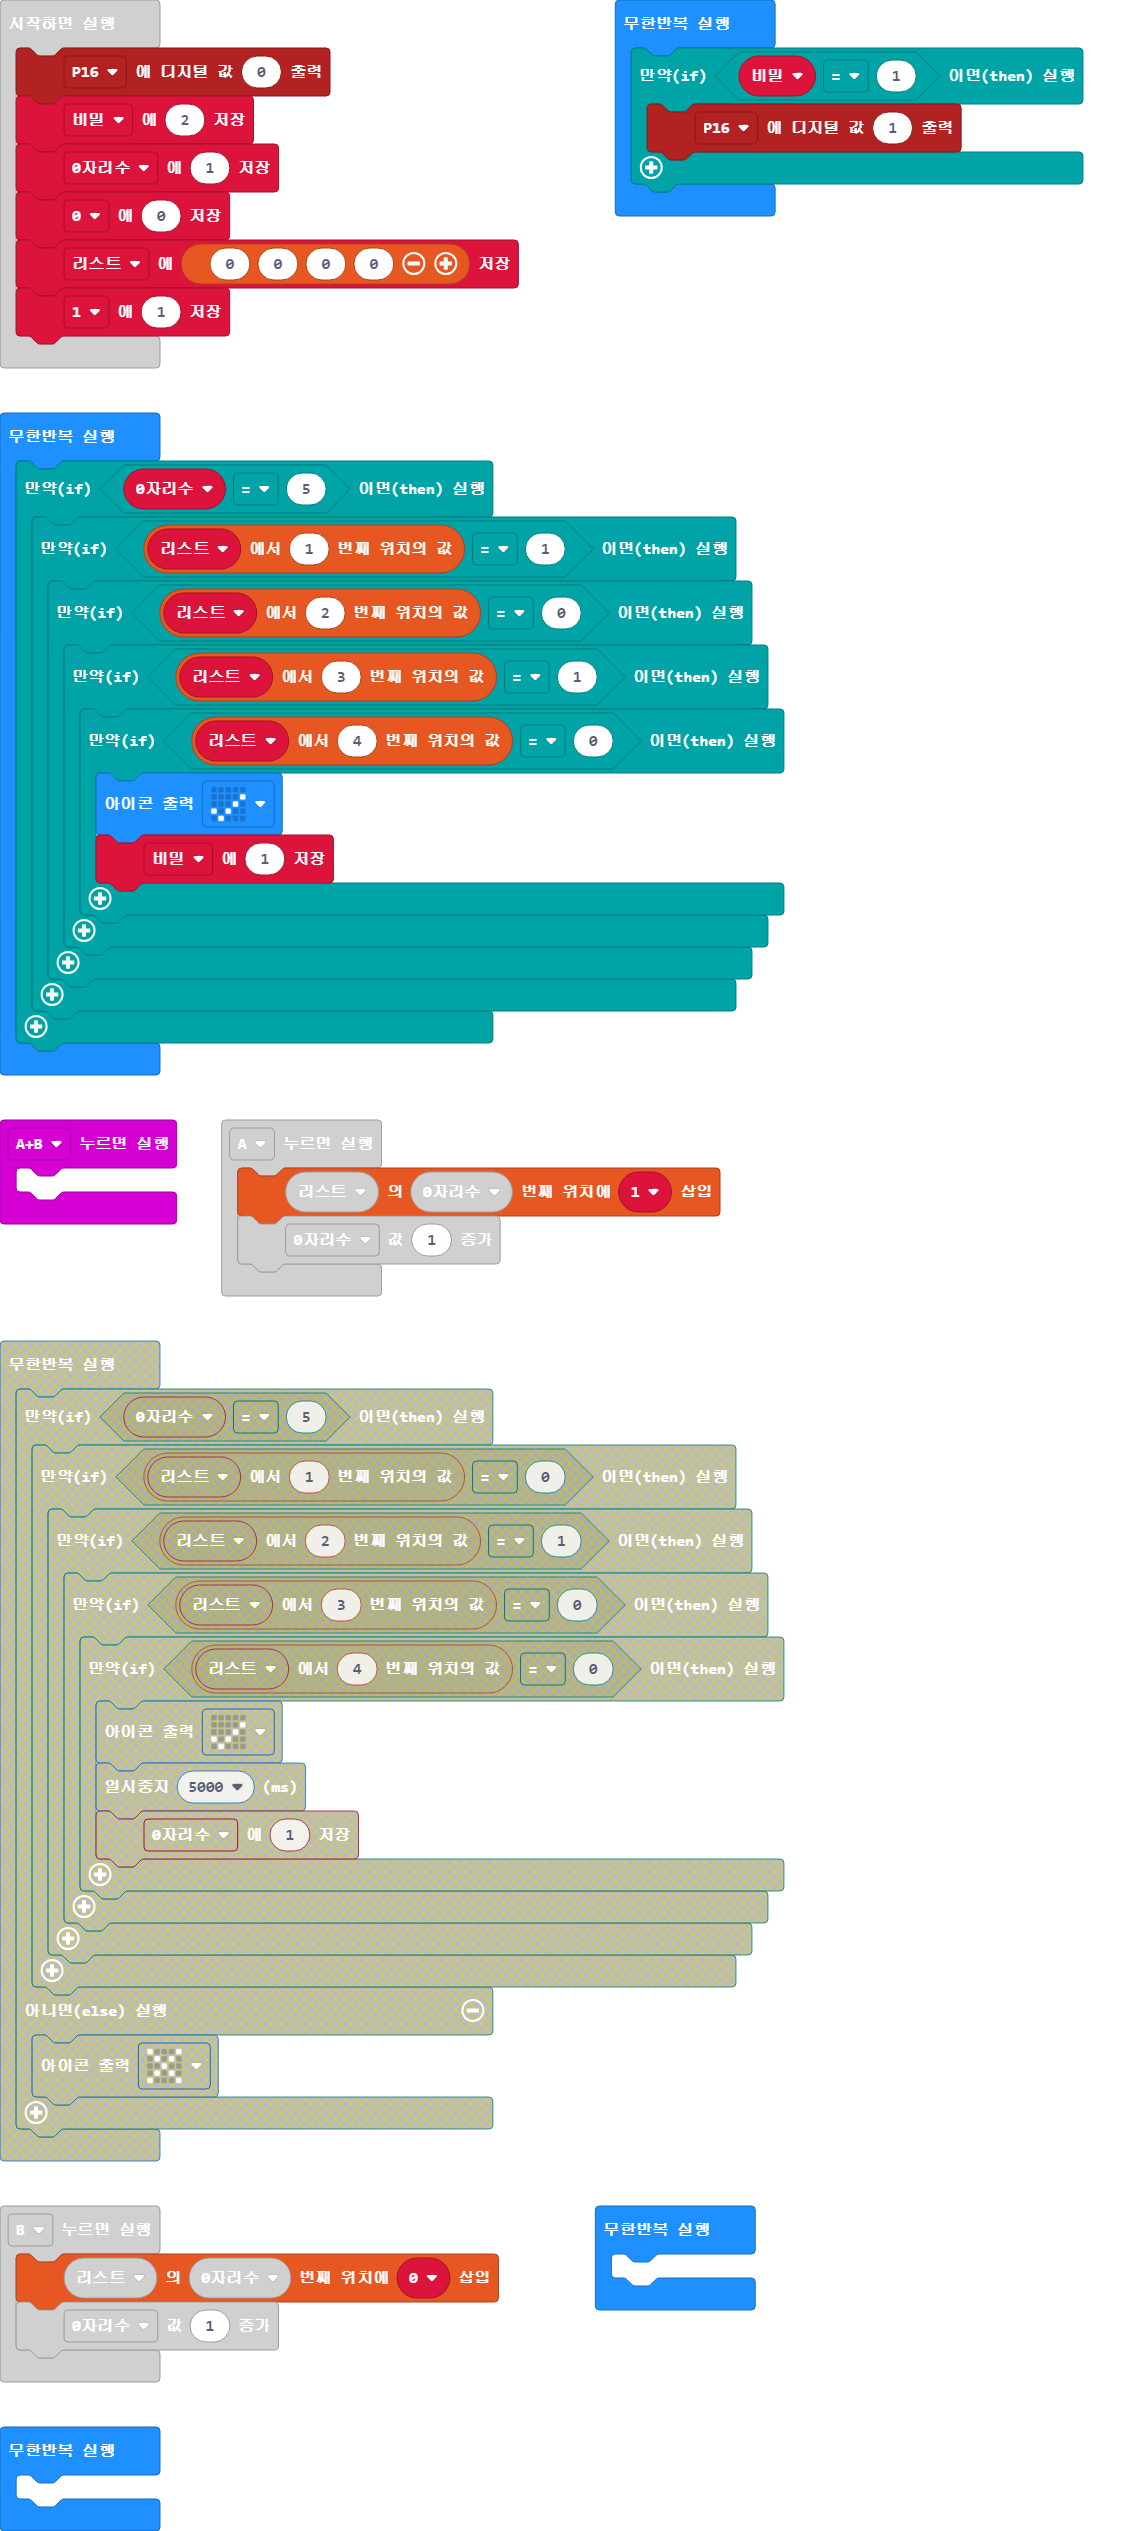
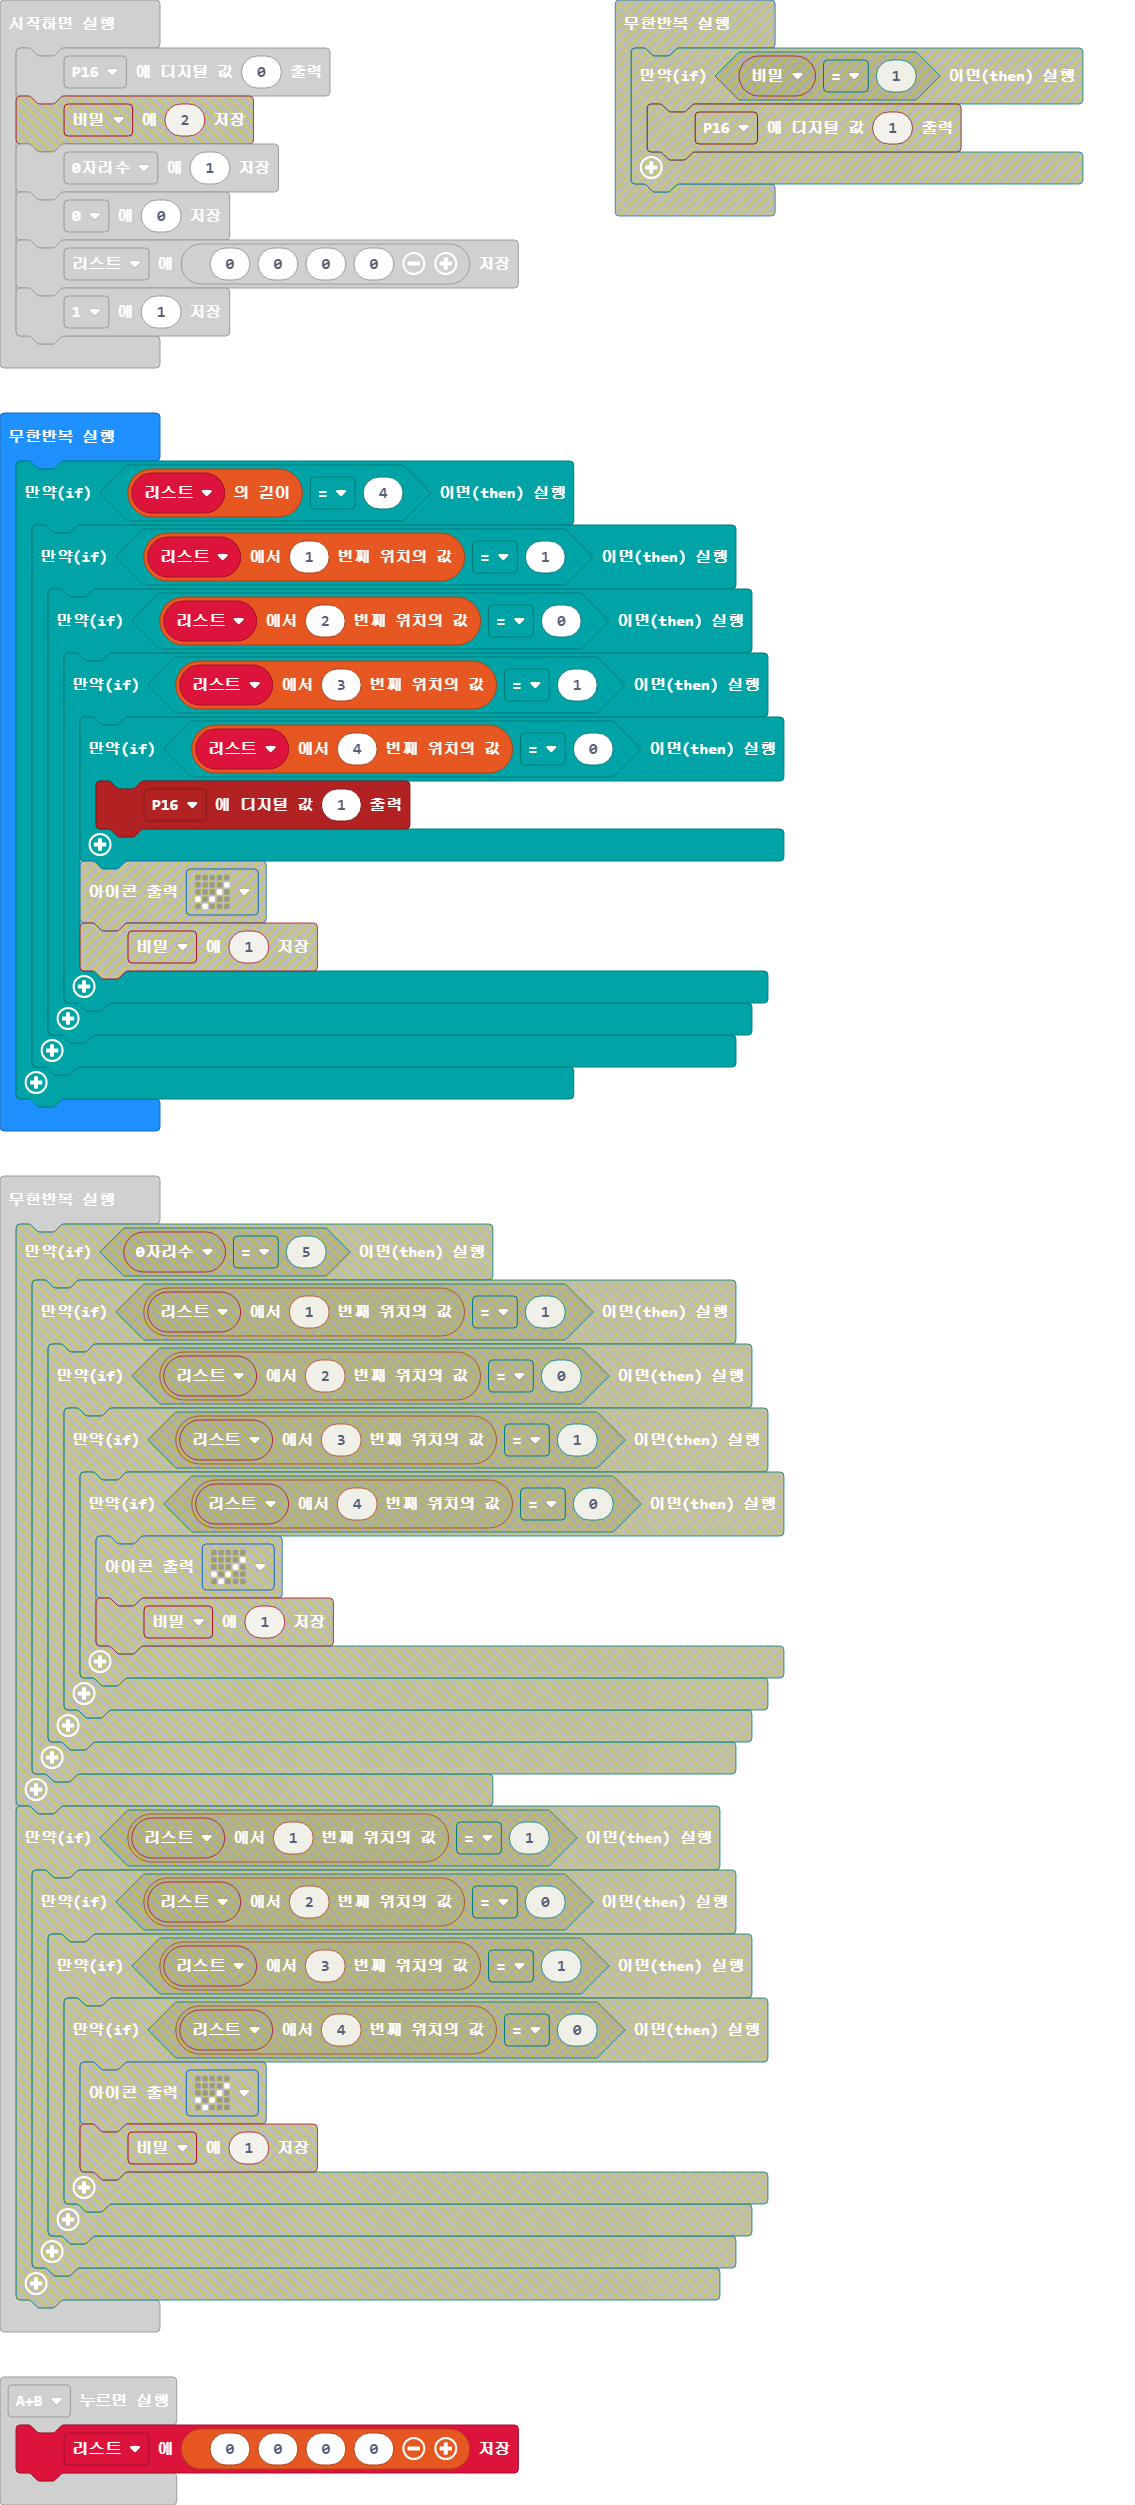
main.blocks, main.ts 업데이트하기

diff --git a/main.ts b/main.ts
@@ -3,7 +3,7 @@ input.onButtonPressed(Button.A, function () {
     _0자리수 += 1
 })
 input.onButtonPressed(Button.AB, function () {
-	
+    리스트 = [0, 0, 0, 0]
 })
 input.onButtonPressed(Button.B, function () {
     리스트.insertAt(_0자리수, _0)
@@ -14,29 +14,25 @@ let _0자리수 = 0
 let _1 = 0
 let _0 = 0
 pins.digitalWritePin(DigitalPin.P16, 0)
-let 비밀 = 2
 _0자리수 = 1
 _0 = 0
 리스트 = [0, 0, 0, 0]
 _1 = 1
 basic.forever(function () {
-    if (비밀 == 1) {
-        pins.digitalWritePin(DigitalPin.P16, 1)
-    }
-})
-basic.forever(function () {
-    if (_0자리수 == 5) {
+    if (리스트.length == 4) {
         if (리스트[1] == 1) {
             if (리스트[2] == 0) {
                 if (리스트[3] == 1) {
                     if (리스트[4] == 0) {
-                        basic.showIcon(IconNames.Yes)
-                        비밀 = 1
+                        pins.digitalWritePin(DigitalPin.P16, 1)
                     }
                 }
             }
         }
     }
+})
+basic.forever(function () {
+	
 })
 basic.forever(function () {
 	
